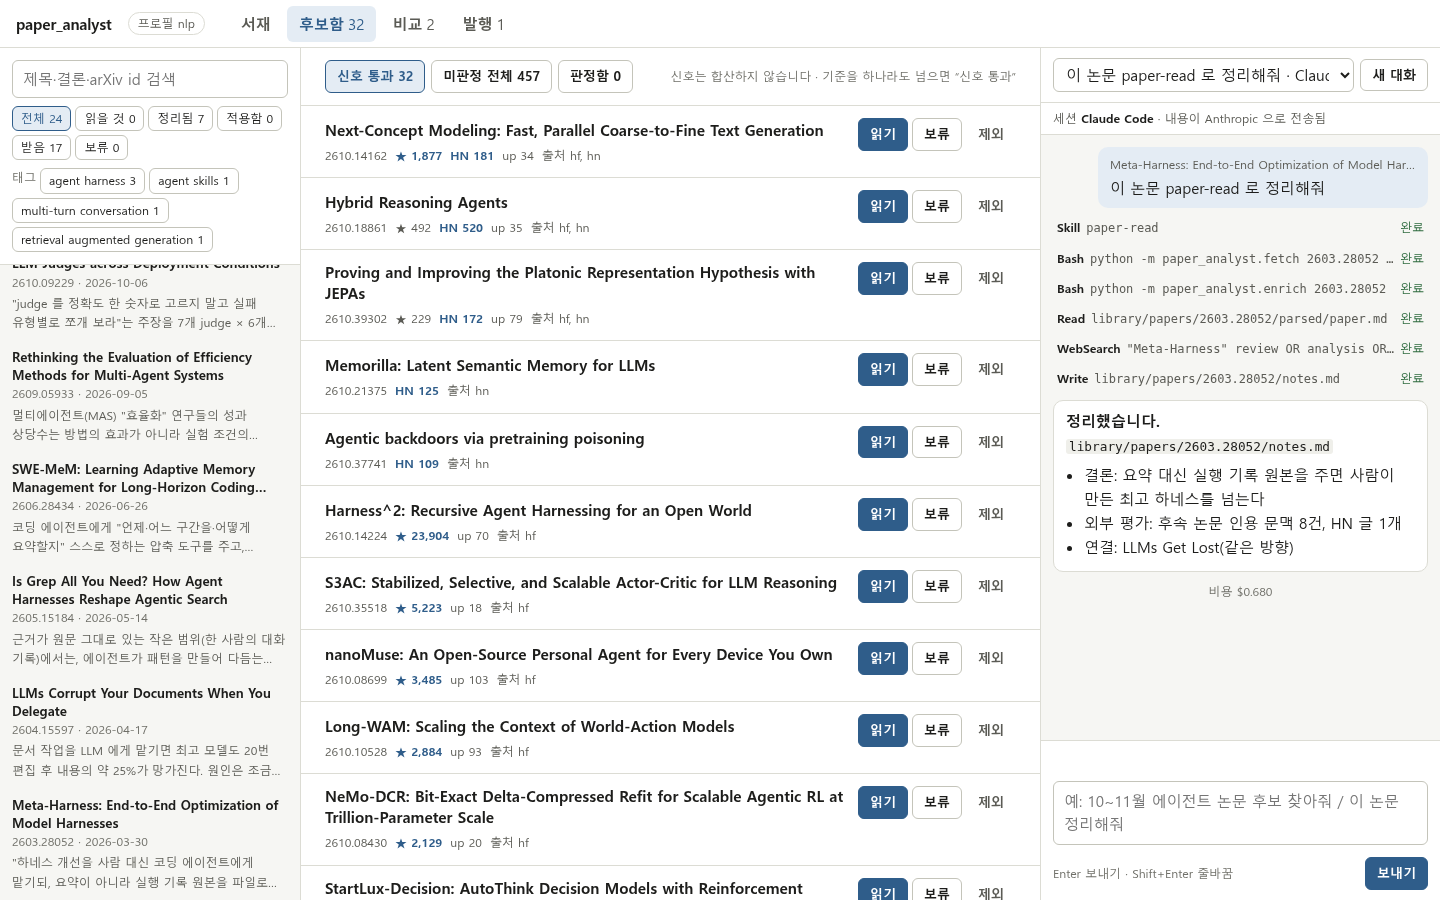
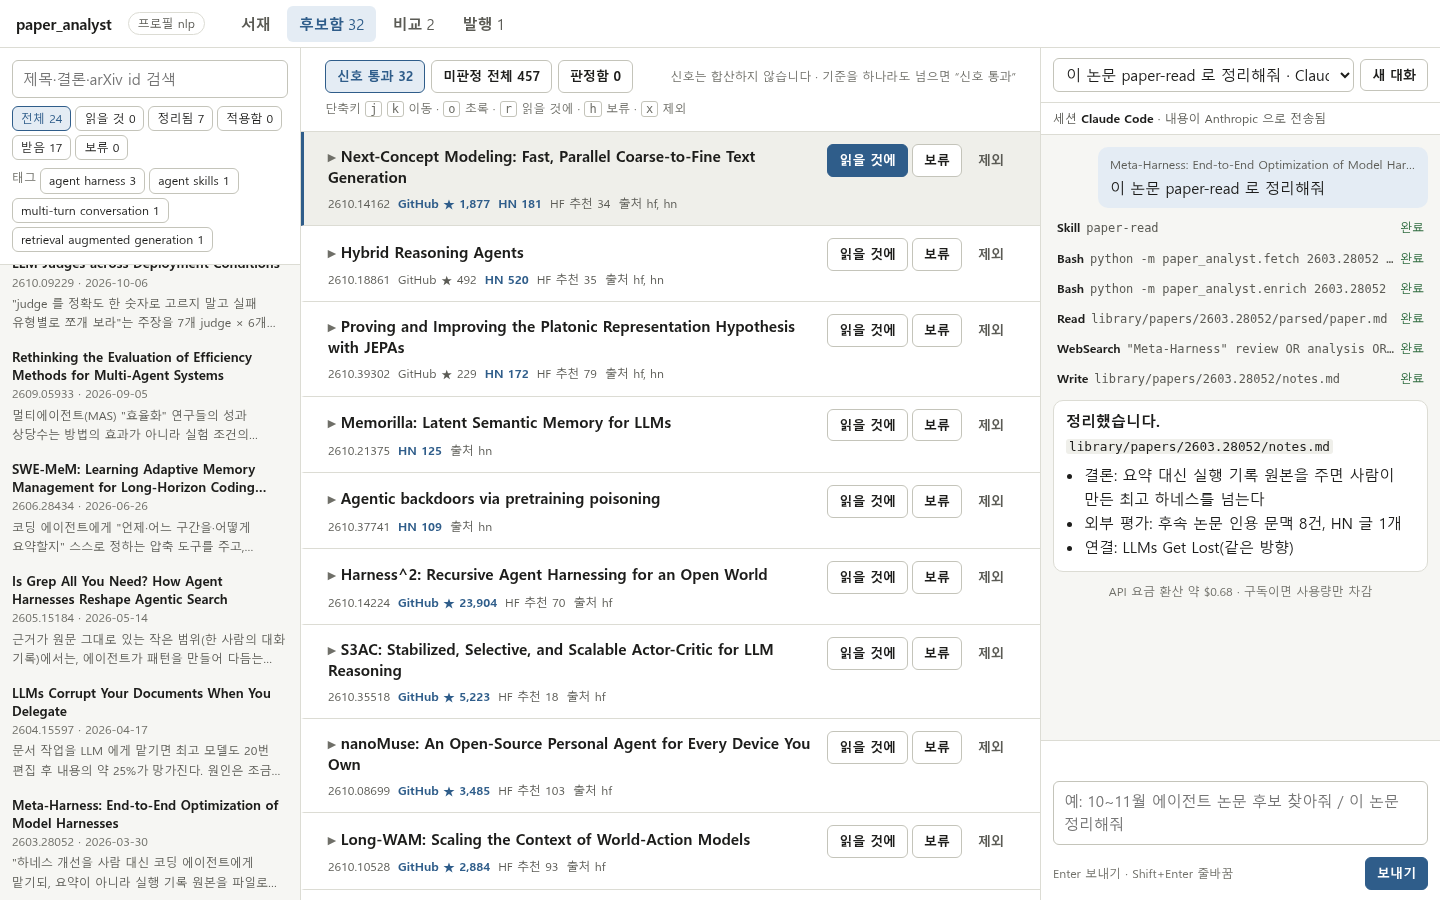
화면 검토 반영: 비용 표기·후보 신호 라벨·버튼 위계·결론 중복
- 대화창 비용: 'API 요금 환산 약 $x · 구독이면 사용량만 차감' (+설명 툴팁)
- 후보함: 신호를 말로(GitHub ★ / HF 추천 / HN / 인용, 툴팁), '읽기' → '읽을 것에'
  고른 행만 강조·진한 버튼, 단축키 j·k·o·r·h·x (입력 중엔 무시), 판정 뒤 다음 후보 선택, 제목 ▸ 펼침 표시
- 논문 화면: 상태를 한 묶음(파일 기준|적용함|보류), arXiv 는 메타 줄 링크, 버튼 7 → 5
- notes: 예전 양식 '한 줄 요약'도 결론 중복 제거, 출처·읽은 범위 목록은 접어 둠
- 홈 결론 카드: 보통 굵기 3줄 말줄임
- 브라우저 점검 +8 항목 (95/95), README 캡처·문구 갱신

Changed region(s): [[0.2188, 0.0933, 0.7188, 1.0], [0.7812, 0.6533, 0.9375, 0.6844]]

diff --git a/paper_analyst/static/index.html b/paper_analyst/static/index.html
@@ -88,11 +88,23 @@ a { color: var(--accent); }
 .bar { display: flex; flex-wrap: wrap; gap: 6px; align-items: center; margin: 14px 0 18px; }
 .bar .lbl { font-size: var(--fs-cap); color: var(--text-3); margin-right: 2px; }
 .sep { width: 1px; height: 20px; background: var(--line); margin: 0 6px; }
+.seg { display: inline-flex; border: 1px solid var(--line-strong); border-radius: var(--radius); overflow: hidden; }
+.seg .btn { border: 0; border-radius: 0; border-left: 1px solid var(--line-strong); }
+.seg .btn:first-child { border-left: 0; }
+.seg .btn[aria-pressed="true"] { box-shadow: none; }
+.meta a { color: var(--accent); padding: 4px 0; }   /* 글 줄 안 링크지만 누를 자리는 넓게 */
 .concl { background: var(--concl-bg); border: 1px solid var(--concl-line); border-radius: var(--radius-lg); padding: 12px 16px; margin: 0 0 14px; display: block; width: 100%; text-align: left; }
 button.concl { cursor: pointer; }
 button.concl:hover { border-color: var(--concl-label); }
 .concl .k { font-size: var(--fs-cap); font-weight: 700; color: var(--concl-label); display: block; margin-bottom: 2px; }
 .concl .v { margin: 0; font-weight: 600; line-height: 1.55; display: block; }
+/* 홈 목록: 굵은 벽이 되지 않게 보통 굵기 + 3줄까지 */
+.concl.card .v { font-weight: 400; display: -webkit-box; -webkit-line-clamp: 3; -webkit-box-orient: vertical; overflow: hidden; }
+.concl.card .k { font-size: var(--fs-label); color: var(--text); margin-bottom: 4px; }
+.concl.card:hover { border-color: var(--accent); }
+details.src-meta { font-size: var(--fs-cap); color: var(--text-3); margin: 0 0 8px; }
+details.src-meta summary { cursor: pointer; }
+details.src-meta ul { margin: 4px 0 0; }
 .md { line-height: 1.7; }
 .md h1 { font-size: var(--fs-h2); } .md h2 { font-size: var(--fs-h2); margin-top: 28px; padding-top: 12px; border-top: 1px solid var(--line); }
 .md h3 { font-size: var(--fs-h3); margin-top: 20px; }
@@ -186,13 +198,18 @@ table.cmp .empty-cell { color: var(--text-3); }
 /* 후보함 */
 .cand-head { position: sticky; top: 0; background: var(--panel); border-bottom: 1px solid var(--line); padding: 12px 24px; display: flex; gap: 6px; align-items: center; flex-wrap: wrap; z-index: 1; }
 .cand-head .hint { color: var(--text-3); font-size: var(--fs-cap); margin-left: auto; }
-.cand { border-bottom: 1px solid var(--line); padding: 12px 24px; }
+.cand { border-bottom: 1px solid var(--line); padding: 12px 24px; border-left: 3px solid transparent; }
+.cand.sel { background: var(--panel-2); border-left-color: var(--accent); }
 .cand .row { display: flex; gap: 12px; align-items: flex-start; }
 .cand .info { flex: 1; min-width: 0; }
-.cand button.t { border: 0; background: none; padding: 0; text-align: left; cursor: pointer; font-weight: 600; line-height: 1.4; }
+.cand button.t { border: 0; background: none; padding: 2px 0; min-height: 28px; text-align: left; cursor: pointer; font-weight: 600; line-height: 1.4; }
+.cand button.t::before { content: '▸ '; color: var(--text-3); }
+.cand button.t[aria-expanded="true"]::before { content: '▾ '; }
 .cand button.t:hover { color: var(--accent); }
 .sig { display: flex; flex-wrap: wrap; gap: 8px; margin-top: 4px; font-size: var(--fs-cap); color: var(--text-2); font-variant-numeric: tabular-nums; }
 .sig .hit { color: var(--accent); font-weight: 700; }
+.cand-head .keys { font-size: var(--fs-cap); color: var(--text-3); width: 100%; }
+.cand-head .keys kbd { font-family: var(--mono); border: 1px solid var(--line-strong); border-radius: 3px; padding: 0 4px; }
 .cand .acts { display: flex; gap: 4px; flex-shrink: 0; align-items: center; }
 .cand .abstract { margin-top: 8px; font-size: var(--fs-label); line-height: 1.65; }
 
@@ -420,9 +437,9 @@ async function showPaper(id, quiet = false) {
   const inCmp = S.cmp.includes(p.id);
   const manual = ['applied', 'hold'].includes(p.status) ? p.status : null;
   const auto = p.has_notes ? 'noted' : (p.status === 'to_read' ? 'to_read' : 'fetched');
-  const stBtns = [['applied', '적용함'], ['hold', '보류']].map(([k, n]) =>
-    `<button class="btn" data-st="${k}" aria-pressed="${manual === k}">${n}</button>`).join('')
-    + (manual ? `<button class="btn quiet" data-st="">되돌리기</button>` : '');
+  // 상태는 한 묶음: 파일 기준(자동) | 적용함 | 보류 — 자동을 누르면 수동 표시를 되돌린다
+  const stBtns = `<span class="seg" role="group" aria-label="상태">${[['', names[auto]], ['applied', '적용함'], ['hold', '보류']].map(([k, n]) =>
+    `<button class="btn" data-st="${k}" aria-pressed="${(manual || '') === k}">${esc(n)}</button>`).join('')}</span>`;
   const ask = p.has_notes
     ? `<button class="btn" data-ask="이 논문 notes 를 다시 확인하고, 빠진 외부 평가가 있으면 보강해줘">다시 정리 시키기</button>`
     : `<button class="btn primary" data-ask="이 논문 paper-read 로 정리해줘">Claude 에게 정리 시키기</button>`;
@@ -430,13 +447,12 @@ async function showPaper(id, quiet = false) {
   const authors = p.authors && p.authors.length ? ' · ' + esc(p.authors.slice(0, 3).join(', ')) + (p.authors.length > 3 ? ` 외 ${p.authors.length - 3}명` : '') : '';
   $('#main').innerHTML = `<article class="doc">
     <h1 class="title">${esc(p.title)}</h1>
-    <div class="meta">arXiv ${esc(p.id)}${p.published ? ' · 발표 ' + esc(fmtDate(p.published)) : ''}${p.category ? ' · ' + esc(p.category) : ''}${authors}</div>
+    <div class="meta"><a href="${esc(p.abs_url)}" target="_blank" rel="noopener">arXiv ${esc(p.id)}</a>${p.published ? ' · 발표 ' + esc(fmtDate(p.published)) : ''}${p.category ? ' · ' + esc(p.category) : ''}${authors}</div>
     <div class="bar">
-      <span class="lbl">상태</span><span class="chip">${esc(names[manual || auto])}</span>${stBtns}
+      <span class="lbl">상태</span>${stBtns}
       <span class="sep"></span>${ask}
       ${p.has_notes ? `<button class="btn" data-cmp="${esc(p.id)}" aria-pressed="${inCmp}">${inCmp ? '비교에서 빼기' : '비교에 담기'}</button>
         <button class="btn" data-ask="이 논문으로 paper-post 글 초안 만들어줘 (LinkedIn·블로그)">글 초안 만들기</button>` : ''}
-      <a class="btn quiet" href="${esc(p.abs_url)}" target="_blank" rel="noopener">arXiv 열기</a>
     </div>
     ${p.conclusion ? `<div class="concl"><span class="k">결론</span><span class="v">${esc(p.conclusion)}</span></div>` : ''}
     ${paperExtras(p)}
@@ -611,7 +627,14 @@ function dedupe(md, p) {   // 위에 이미 보인 제목·결론 문장은 note
   const norm = s => (s || '').replace(/\s+/g, ' ').trim();
   const h1 = md.querySelector(':scope > h1:first-child');
   if (h1 && norm(h1.textContent) === norm(p.title)) h1.remove();
-  const h2 = [...md.querySelectorAll(':scope > h2')].find(h => norm(h.textContent).startsWith('결론'));
+  // 맨 앞(첫 h2 전) 목록은 출처·읽은 범위 같은 기술 정보 — 작게 접어 둔다
+  const lead = md.querySelector(':scope > ul:first-child');
+  if (lead) {
+    const d = document.createElement('details'); d.className = 'src-meta';
+    d.innerHTML = '<summary>출처·읽은 범위·정리 시각</summary>'; lead.replaceWith(d); d.appendChild(lead);
+  }
+  // 결론 문장은 위 결론 상자에 이미 있다 — 새 양식 '결론', 예전 양식 '한 줄 요약' 둘 다
+  const h2 = [...md.querySelectorAll(':scope > h2')].find(h => /^(결론|한 줄 요약)/.test(norm(h.textContent)));
   const first = h2 && h2.nextElementSibling;
   if (first && first.tagName === 'P' && norm(first.textContent) === norm(p.conclusion)) {
     first.remove();
@@ -633,41 +656,60 @@ function welcome() {
   const noted = S.lib.papers.filter(p => p.conclusion).sort((a, b) => b.noted_at - a.noted_at);
   $('#main').innerHTML = `<div class="doc"><h1 class="title">최근 정리된 결론</h1>
     <p class="meta" style="margin-bottom:16px">왼쪽에서 논문을 고르거나, 오른쪽 대화창에서 Claude 에게 찾기·정리를 시키세요.</p>
-    ${noted.slice(0, 10).map(p => `<button class="concl" data-paper="${esc(p.id)}"><span class="k">${esc(p.title)}</span><span class="v">${esc(p.conclusion)}</span></button>`).join('')
+    ${noted.slice(0, 10).map(p => `<button class="concl card" data-paper="${esc(p.id)}"><span class="k">${esc(p.title)}</span><span class="v">${esc(p.conclusion)}</span></button>`).join('')
       || '<p class="abstract">아직 정리된 논문이 없습니다.</p>'}</div>`;
 }
 
 /* ── 후보함 ───────────────────────────────── */
+const DEC_NAMES = { read: '읽을 것', hold: '보류', exclude: '제외' };
+function candMove(id) {
+  S.candSel = id; S.candIdx = S.cand.items.findIndex(x => x.id === id); renderCand();
+  document.querySelector(`.cand[data-cand="${CSS.escape(id)}"]`)?.scrollIntoView({ block: 'nearest' });
+}
+document.addEventListener('keydown', e => {   // 후보함 단축키 — 입력 중이거나 조합키면 무시
+  if (S.view !== 'cand' || S.candView === 'decided' || !S.cand || !S.cand.items.length) return;
+  if (e.ctrlKey || e.metaKey || e.altKey || e.isComposing || e.target.closest('input,textarea,select,[contenteditable]')) return;
+  const items = S.cand.items, i = Math.max(0, items.findIndex(x => x.id === S.candSel));
+  const k = e.key.toLowerCase();
+  if (k === 'j' || k === 'k') { e.preventDefault(); return candMove(items[Math.min(items.length - 1, Math.max(0, i + (k === 'j' ? 1 : -1)))].id); }
+  const id = items[i].id;
+  if (k === 'o') { e.preventDefault(); return document.querySelector(`.cand[data-cand="${CSS.escape(id)}"] button.t`)?.click(); }
+  const dec = { r: 'read', h: 'hold', x: 'exclude' }[k];
+  if (dec) { e.preventDefault(); S.candIdx = i; document.querySelector(`.cand[data-cand="${CSS.escape(id)}"] button[data-dec="${dec}"]`)?.click(); }
+});
 async function loadCand() {
   try { S.cand = await api(`/api/candidates?view=${S.candView}`); }
   catch (e) { if (S.view === 'cand') $('#main').innerHTML = `<div class="empty"><h2>후보를 불러오지 못했습니다</h2><p>${esc(e.message)}</p></div>`; return; }
   $('#cand-n').textContent = S.cand.counts.signal || '';
+  const ids = S.cand.items.map(x => x.id);
+  if (!ids.includes(S.candSel)) S.candSel = ids[Math.min(S.candIdx || 0, ids.length - 1)] || null;
   if (S.view === 'cand') renderCand();
 }
 function renderCand() {
-  const c = S.cand, dn = { read: '읽기', hold: '보류', exclude: '제외' };
+  const c = S.cand, dn = DEC_NAMES;
   const head = `<div class="cand-head">
     ${[['signal', '신호 통과', c.counts.signal], ['all', '미판정 전체', c.counts.all], ['decided', '판정함', c.counts.decided]]
       .map(([k, n, v]) => `<button class="btn" data-cv="${k}" aria-pressed="${S.candView === k}">${n} ${fmtN(v)}</button>`).join('')}
-    <span class="hint">신호는 합산하지 않습니다 · 기준을 하나라도 넘으면 “신호 통과”</span></div>`;
+    <span class="hint">신호는 합산하지 않습니다 · 기준을 하나라도 넘으면 “신호 통과”</span>
+    ${S.candView !== 'decided' && c.items.length ? '<span class="keys">단축키 <kbd>j</kbd> <kbd>k</kbd> 이동 · <kbd>o</kbd> 초록 · <kbd>r</kbd> 읽을 것에 · <kbd>h</kbd> 보류 · <kbd>x</kbd> 제외</span>' : ''}</div>`;
   if (!c.items.length) {
     $('#main').innerHTML = head + `<div class="empty"><h2>${S.candView === 'decided' ? '판정한 후보가 없습니다' : '판정할 후보가 없습니다'}</h2>
       <p>대화창에서 <span class="ex">2026년 10~11월 후보 찾아줘</span>처럼 시키면 Claude 가 후보를 모아 여기에 넣습니다.</p></div>`;
     return;
   }
   $('#main').innerHTML = head + c.items.map(x => {
-    const sig = [['stars', x.stars, '★'], ['hn', x.hn, 'HN'], ['cit', x.cit, '인용']]
-      .filter(([, v]) => v).map(([k, v, l]) => `<span class="${x.signals.includes(k) ? 'hit' : ''}">${l} ${fmtN(v)}</span>`);
-    if (x.upvotes) sig.push(`<span>up ${fmtN(x.upvotes)}</span>`);
+    const sig = [['stars', x.stars, 'GitHub ★', '코드 저장소 GitHub 스타'], ['hn', x.hn, 'HN', 'Hacker News 점수'], ['cit', x.cit, '인용', 'Semantic Scholar 인용 수']]
+      .filter(([, v]) => v).map(([k, v, l, t]) => `<span class="${x.signals.includes(k) ? 'hit' : ''}" title="${t}${x.signals.includes(k) ? ' — 기준 넘음' : ''}">${l} ${fmtN(v)}</span>`);
+    if (x.upvotes) sig.push(`<span title="Hugging Face Daily Papers 추천 수">HF 추천 ${fmtN(x.upvotes)}</span>`);
     const open = S.openAbs.has(x.id);
-    return `<div class="cand"><div class="row"><div class="info">
+    return `<div class="cand${S.candView !== 'decided' && x.id === S.candSel ? ' sel' : ''}" data-cand="${esc(x.id)}"><div class="row"><div class="info">
       <button class="t" data-abs="${esc(x.id)}" aria-expanded="${open}">${esc(x.title || x.id)}</button>
-      <div class="sig"><span>${esc(x.id)}</span>${sig.join('')}<span>출처 ${esc(x.src.join(', '))}</span></div>
+      <div class="sig"><span>${esc(x.id)}</span>${sig.join('')}<span title="후보를 찾은 곳 (hf: Hugging Face, hn: Hacker News, s2: Semantic Scholar, kw: 관심 키워드)">출처 ${esc(x.src.join(', '))}</span></div>
       ${open ? `<div class="abstract">${S.abs[x.id] === undefined ? '초록 가져오는 중…' : esc(S.abs[x.id] || '초록을 가져오지 못했습니다 (HF·arXiv 응답 없음).')}</div>` : ''}
       </div><div class="acts">
       ${S.candView === 'decided'
         ? `<span class="chip">${dn[x.decision]}</span><button class="btn quiet" data-dec="" data-id="${esc(x.id)}">되돌리기</button>`
-        : `<button class="btn primary" data-dec="read" data-id="${esc(x.id)}">읽기</button><button class="btn" data-dec="hold" data-id="${esc(x.id)}">보류</button><button class="btn quiet" data-dec="exclude" data-id="${esc(x.id)}">제외</button>`}
+        : `<button class="btn${x.id === S.candSel ? ' primary' : ''}" data-dec="read" data-id="${esc(x.id)}">읽을 것에</button><button class="btn" data-dec="hold" data-id="${esc(x.id)}">보류</button><button class="btn quiet" data-dec="exclude" data-id="${esc(x.id)}">제외</button>`}
       </div></div></div>`;
   }).join('');
 }
@@ -759,7 +801,7 @@ function onEvent(e) {
     S.running = false;
     const msg = { canceled: '중지했습니다', interrupted: d.message || '서버가 다시 켜져 끊겼습니다', failed: '답하지 못하고 끝났습니다' }[d.status];
     if (msg) add(`<div class="endline bad">${esc(msg)}</div>`);
-    else if (d.cost) add(`<div class="endline">비용 $${Number(d.cost).toFixed(3)}</div>`);
+    else if (d.cost) add(`<div class="endline" title="Claude 구독(Pro/Max)으로 로그인했으면 추가 요금 없이 사용량 한도에서만 차감됩니다. API 키로 쓰면 이 금액이 청구됩니다.">API 요금 환산 약 $${Number(d.cost).toFixed(2)} · 구독이면 사용량만 차감</div>`);
     box.querySelectorAll('.st.run').forEach(s => { s.className = 'st bad'; s.textContent = '끝나지 않음'; });
     renderSess(); loadChats(); loadLib(true); loadCand();
   }
@@ -832,13 +874,13 @@ document.addEventListener('click', async ev => {
   if (t.dataset.uncmp) { S.cmp = S.cmp.filter(x => x !== t.dataset.uncmp); saveCmp(); return renderCompare(); }
   if (t.dataset.st !== undefined) {
     try { await api(`/api/papers/${S.sel.id}/status`, { method: 'PUT', body: { status: t.dataset.st || null } });
-      await loadLib(); showPaper(S.sel.id, true); toast(t.dataset.st ? `${t.textContent}으로 표시했습니다` : '파일 기준 상태로 되돌렸습니다'); }
+      await loadLib(); showPaper(S.sel.id, true); toast(t.dataset.st ? `${t.textContent}(으)로 표시했습니다` : '파일 기준 상태로 되돌렸습니다'); }
     catch (e) { toast(e.message); } return;
   }
   if (t.dataset.ask) return send(t.dataset.ask);
   if (t.dataset.cv) { S.candView = t.dataset.cv; return loadCand(); }
   if (t.dataset.abs) {
-    const id = t.dataset.abs;
+    const id = t.dataset.abs; S.candSel = id;
     if (S.openAbs.has(id)) { S.openAbs.delete(id); return renderCand(); }
     S.openAbs.add(id); renderCand();
     if (S.abs[id] === undefined) { try { S.abs[id] = (await api(`/api/candidates/${id}/abstract`)).abstract; } catch { S.abs[id] = ''; } renderCand(); }
@@ -846,8 +888,9 @@ document.addEventListener('click', async ev => {
   }
   if (t.dataset.dec !== undefined) {
     const id = t.dataset.id, dec = t.dataset.dec || null;
+    if (dec && S.cand) S.candIdx = S.cand.items.findIndex(x => x.id === id);   // 판정 뒤에는 같은 자리(다음 후보)를 고른다
     try { await api(`/api/candidates/${id}/decision`, { method: 'PUT', body: { decision: dec } });
-      toast(dec ? `${{ read: '읽기', hold: '보류', exclude: '제외' }[dec]}로 옮겼습니다` : '되돌렸습니다');
+      toast(dec ? `${DEC_NAMES[dec]}(으)로 옮겼습니다` : '되돌렸습니다');
       await Promise.all([loadCand(), loadLib()]); } catch (e) { toast(e.message); } return;
   }
   if (t.dataset.backend) {

diff --git a/tools/browser_check.py b/tools/browser_check.py
@@ -203,6 +203,17 @@ with sync_playwright() as p:
     check("논문: notes 안 제목·결론 문장 중복 없음", page.locator("#notes > h1").count() == 0
           and page.inner_text("#notes").count(page.inner_text("article .concl .v")[:30]) == 0)
     check("논문: 결론 블록 + notes 렌더 (표)", page.locator("article .md table").count() >= 1)
+    check("논문: 상태 한 묶음(자동|적용함|보류) + arXiv 는 메타 줄 링크",
+          page.locator("article .seg button[data-st]").count() == 3 and page.locator("article .meta a[href*='arxiv.org']").count() == 1)
+    if (TMP / "library/papers/2606.28434/notes.md").exists():   # 예전 양식 ('## 한 줄 요약')
+        page.click("#lib-list button[data-paper='2606.28434']")
+        page.wait_for_function("document.querySelector('article h1') && document.querySelector('article h1').innerText.includes('SWE-MeM')")
+        cv = page.inner_text("article .concl .v")[:30]
+        check("논문(예전 양식): 결론 한 번만 + 기술 정보 접힘",
+              page.inner_text("#notes").count(cv) == 0 and page.locator("#notes details.src-meta").count() == 1
+              and not page.is_visible("#notes details.src-meta ul"))
+        page.click("#lib-list button[data-paper='2605.15184']")
+        page.wait_for_selector("article .concl")
     has_priv = page.locator("details.private").count()
     page.screenshot(path=str(TMP / "shot_1440_paper.png"))
     page.evaluate("document.querySelector('#main').scrollTop = 900")
@@ -226,11 +237,27 @@ with sync_playwright() as p:
     first.click()
     page.wait_for_function(f"document.querySelector('.cand .abstract') && document.querySelector('.cand .abstract').innerText.includes('{first_id}')")
     check("후보: 초록 펼침", True)
+    sigtxt = " ".join(page.locator(".cand .sig").all_inner_texts())
+    check("후보: 신호를 말로 (GitHub ★ / HF 추천, 맨 'up' 없음)", ("GitHub ★" in sigtxt or "HF 추천" in sigtxt) and " up " not in f" {sigtxt} ", sigtxt[:120])
+    check("후보: 고른 행 하나만 강조 + 그 행만 진한 버튼", page.locator(".cand.sel").count() == 1 and page.locator(".cand .btn.primary").count() == 1)
     page.screenshot(path=str(TMP / "shot_1440_cand.png"))
     page.click(f"button[data-dec='read'][data-id='{first_id}']")
     page.wait_for_function(f"!document.querySelector(\"button[data-abs='{first_id}']\")")
     check("후보: 읽기로 판정 → 목록에서 빠짐", int(page.inner_text("#cand-n") or 0) == n_sig - 1)
     check("후보: 서재 '읽을 것'에 들어감", "읽을 것 1" in page.inner_text("#filters"))
+    nxt = page.get_attribute(".cand.sel", "data-cand")
+    check("후보: 판정 뒤 다음 후보가 골라짐", nxt and nxt != first_id, str(nxt))
+    # 단축키: j 로 하나 내려가 r → 그 후보가 읽을 것으로
+    page.keyboard.press("j")
+    tgt = page.get_attribute(".cand.sel", "data-cand")
+    page.keyboard.press("r")
+    page.wait_for_function(f"!document.querySelector(\"[data-cand='{tgt}']\")")
+    page.wait_for_function("document.querySelector('#filters').innerText.includes('읽을 것 2')")
+    check("후보: 단축키 j·r 로 판정", tgt != nxt and int(page.inner_text("#cand-n") or 0) == n_sig - 2)
+    page.fill("#q", "r"); page.keyboard.press("r")
+    page.wait_for_timeout(300)
+    check("후보: 입력창에서 누른 r 은 판정 안 함", int(page.inner_text("#cand-n") or 0) == n_sig - 2)
+    page.fill("#q", "")
     page.click("button[data-cv='decided']")
     page.wait_for_selector("button[data-dec='']")
     check("후보: 판정함 보기에 있음", first_id in page.inner_text("#main"))
@@ -382,7 +409,8 @@ with sync_playwright() as p:
     page.wait_for_selector(".msg.user")
     check("보내기: 논문 맥락이 말풍선에", "Nemotron" in page.inner_text(".msg.user"))
     check("보내는 중: 입력 잠김 + 중지 버튼", page.is_disabled("#send") and page.is_visible("#stop"))
-    page.wait_for_selector(".endline:has-text('비용')", timeout=10000)
+    page.wait_for_selector(".endline:has-text('API 요금 환산')", timeout=10000)
+    check("대화: 비용은 API 환산 + 구독 안내", "구독이면 사용량만 차감" in page.inner_text(".endline:has-text('API 요금 환산')"))
     check("도구 줄: 완료·거부 표시", page.locator(".tool .st.ok").count() == 2 and page.locator(".tool .st.bad").count() == 1)
     check("거부 안내", "허용 목록 밖의 도구 1건" in page.inner_text("#msgs"))
     check("답: 마크다운(굵게·코드·목록)", page.locator(".msg.bot b").count() == 1 and page.locator(".msg.bot code").count() == 1
